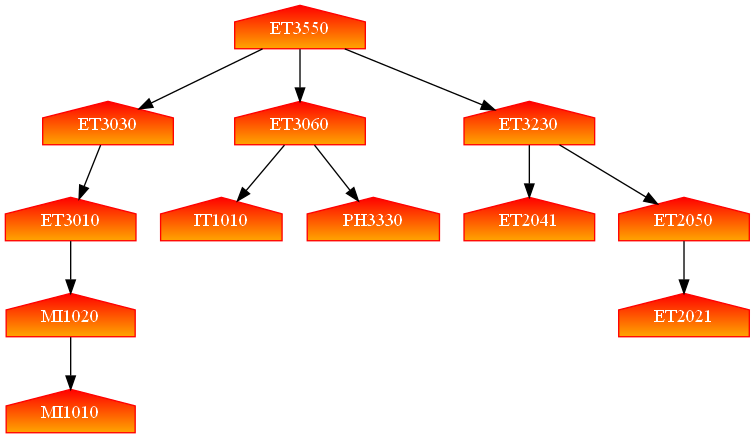
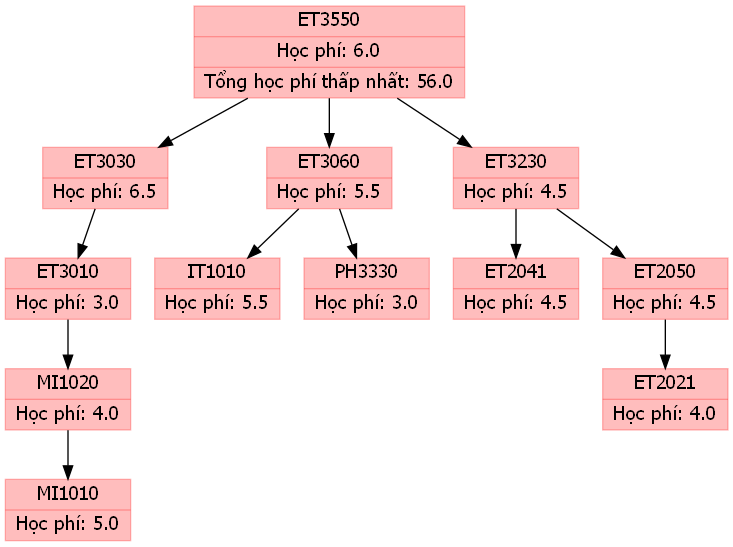
add more info for image

diff --git a/calc.py b/calc.py
@@ -148,11 +148,26 @@ else:
                             node_attr={'shape': 'record',}, 
                             edge_attr={'len': '2.0'}
                             )
-    dot.attr('node', shape='house', color='red:orange', style='filled', gradientangle='270', fontcolor='white')
     listHP = cheapestLst["listHP"].copy()
+    dot.attr('node', shape='record', color='#ff000042', style='filled', fontcolor='black', fontsize="14", fontname="Tahoma")
+    rootObj = getInfoModule(mainModuleCode)
+    rootFee = cheapestLst["minVal"] + rootObj["FeeVal"]
+    rootStringLablel = "Tổng học phí thấp nhất: "+ str(rootFee)
+    dot.node(mainModuleCode, label= "{" + "{mainModuleCode} | {Fee} |{minFee}".format(
+        mainModuleCode =mainModuleCode,
+        Fee = "Học phí: "+ str(rootObj["FeeVal"]),
+        minFee = rootStringLablel
+        ) + "}",)
 
     for item in listHP:
         for i in item["lineTree"]:
+            itemObj = getInfoModule(i)
+            fee = itemObj["FeeVal"]
+            stringLablel = "Học phí: "+ str(fee)
+            dot.node(i, label= "{" + "{mainModuleCode} | {minFee}".format(
+            mainModuleCode =i,
+            minFee = stringLablel
+            ) + "}",)
             dot.edge(item["parent"],i)
             
     dot.render(COURSE_COLLECTION_FOLDER + "/public/pic/" + mainModuleCode, view=False,cleanup=True,format='png')
